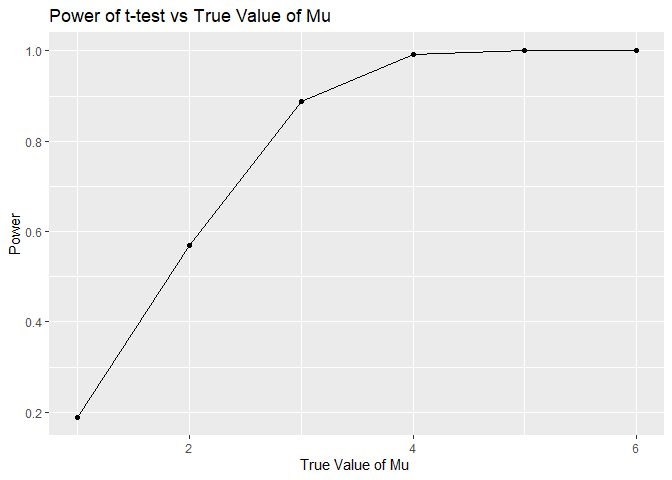
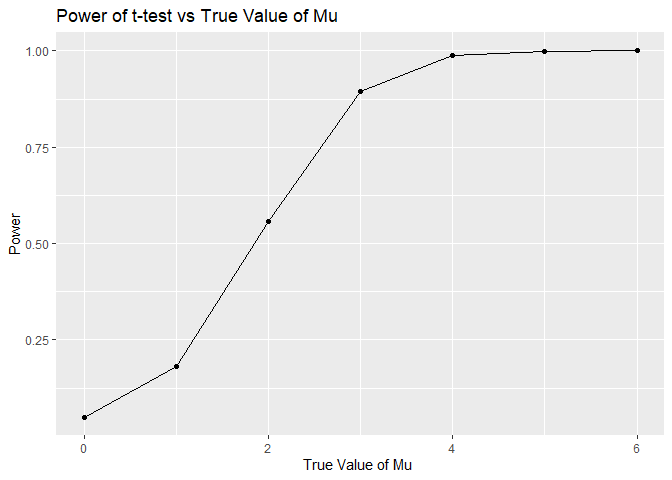
final commit

diff --git a/p8105_hw5_sm5134.md b/p8105_hw5_sm5134.md
@@ -150,7 +150,7 @@ sim_results_df0 = expand_grid(
   
 #generating 5000 datasets when mu = 1-6
 sim_results_df = expand_grid(
-  mu = c(1:6),
+  mu = c(0:6),
   iter = 1:5000
 ) %>% 
   mutate(
@@ -161,6 +161,7 @@ sim_results_df = expand_grid(
 sim_results_df = sim_results_df%>% 
   mutate(reject_h0 = ifelse(p.value < 0.05, TRUE, FALSE))
 
+# creating a plot of power vs the true value of mu
 power_plot = sim_results_df %>% 
   group_by(mu) %>% 
   mutate(power = sum(reject_h0)/5000) %>% 
@@ -176,3 +177,55 @@ power_plot
 ```
 
 ![](p8105_hw5_sm5134_files/figure-gfm/unnamed-chunk-7-1.png)<!-- -->
+This plot depicts the relationship between power of a t-test and the
+true value of mu. As the true value increases, the power of the test
+also increases. This implies that as effect size increases, power
+increases.
+
+``` r
+# plot showing average estimate of mu^ vs true value of mu
+
+sim_results_df = sim_results_df %>% 
+  group_by(mu) %>% 
+  mutate(avg_all = mean(estimate))
+
+all_mu_plot = sim_results_df %>% 
+  ggplot(aes(x = mu, y = avg_all)) + 
+  geom_point() +
+  geom_line() +
+  labs(
+    x = "True Value of Mu",
+    y = "Avg Estimate of Mu (mu hat)",
+    title = "Estimate of Average vs True Value of Mu"
+  )
+
+reject_mu_plot = sim_results_df %>% 
+  filter(reject_h0 == "TRUE") %>% 
+  group_by(mu) %>% 
+  mutate(avg_rej = mean(estimate)) %>% 
+  ggplot(aes(x = mu, y = avg_rej)) + 
+  geom_point() +
+  geom_line() +
+  labs(
+    x = "True Value of Mu",
+    y = "Avg Estimate of Mu (mu hat)",
+    title = "Estimate of Average vs True Value of Mu When Null Hypothesis is Rejected"
+  )
+
+all_mu_plot
+```
+
+![](p8105_hw5_sm5134_files/figure-gfm/unnamed-chunk-8-1.png)<!-- -->
+
+``` r
+reject_mu_plot
+```
+
+![](p8105_hw5_sm5134_files/figure-gfm/unnamed-chunk-8-2.png)<!-- --> The
+sample average of mu hat varies in accuracy across all true values of mu
+when the null is rejected. When mu \>= 4, the sample average estimate is
+very close to the true value. When mu \<= 3, the accuracy decreases.
+This is because, as explored earlier, lower values of mu have lower
+power. Additionally, because we are only including the tests that are
+significant, we are going to see a different average due to reduced
+sample size. This divergence is more pronounced at lower values.
